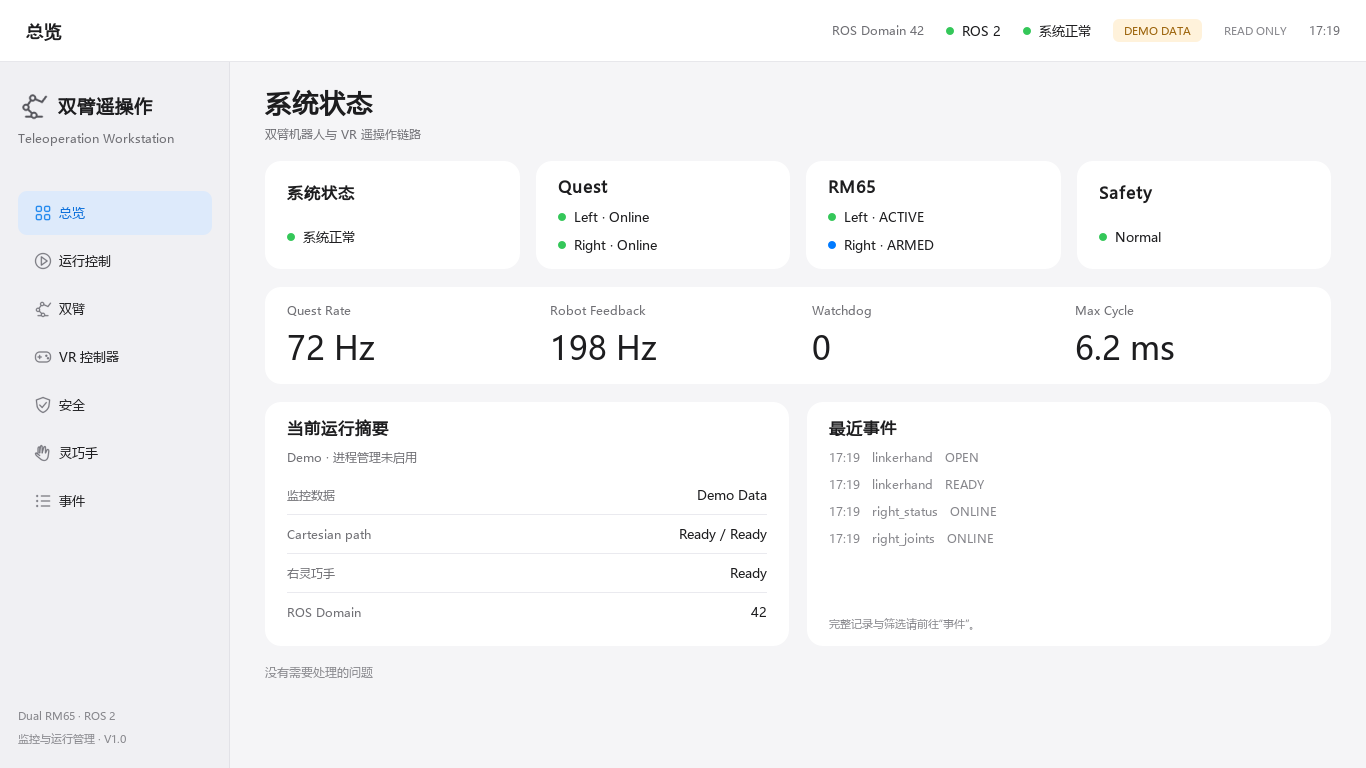
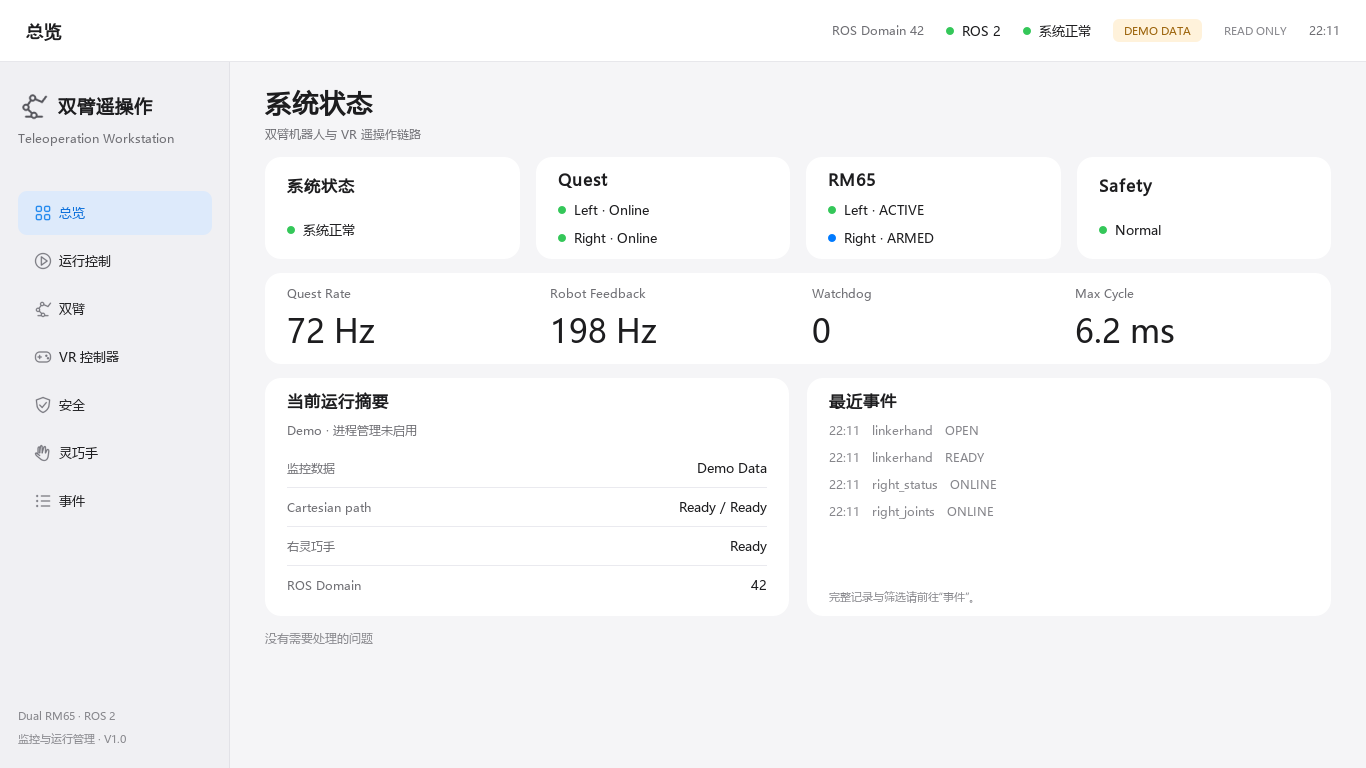
Fit the overview to Humble fonts and deduplicate observer failures

diff --git a/src/rm65_teleop_dashboard/rm65_teleop_dashboard/runtime_service.py b/src/rm65_teleop_dashboard/rm65_teleop_dashboard/runtime_service.py
@@ -58,6 +58,7 @@ class RuntimeService:
         self._snapshot = RuntimeSnapshot()
         self._closing = threading.Event()
         self._thread = None
+        self._observer_error = ''
 
     @classmethod
     def demo(cls):
@@ -100,16 +101,22 @@ class RuntimeService:
             try:
                 self.cycle()
             except Exception as exc:
-                self.system.error = str(exc)
-                self.system.event('RUNTIME_OBSERVER_ERROR', str(exc), 'ERROR')
-                # Failed observation must revoke any previous ready/preflight result.
-                with self._lock:
-                    self._snapshot = RuntimeSnapshot(enabled=self.enabled,
-                        system=process_info(self.system), hand=process_info(self.hand),
-                        facts=PreflightFacts(detail=str(exc)), events=tuple(self.system.events))
+                self.observation_failed(exc)
                 self.system.tick()
                 self.hand.tick()
             self._closing.wait(.5)
+
+    def observation_failed(self, exc):
+        message = str(exc)
+        if message != self._observer_error:
+            self.system.event('RUNTIME_OBSERVER_ERROR', message, 'ERROR')
+        self._observer_error = self.system.error = message
+        self.system.set_ready(False)
+        self.hand.set_ready(False)
+        with self._lock:
+            self._snapshot = RuntimeSnapshot(enabled=self.enabled,
+                system=process_info(self.system), hand=process_info(self.hand),
+                facts=PreflightFacts(detail=message), events=tuple(self.system.events))
 
     def cycle(self):
         self.system.tick()
@@ -132,6 +139,11 @@ class RuntimeService:
         graph = self.graph_provider()
         data = self.snapshot_provider()
         facts = self._facts(graph, data)
+        if self._observer_error:
+            if self.system.error == self._observer_error:
+                self.system.error = ''
+            self._observer_error = ''
+            self.system.event('RUNTIME_OBSERVER_RECOVERED')
         # At most one startup per observation. Every subsequent queued click
         # receives fresh graph/process evidence on the next worker iteration.
         try:

diff --git a/src/rm65_teleop_dashboard/test/test_runtime_service.py b/src/rm65_teleop_dashboard/test/test_runtime_service.py
@@ -101,3 +101,14 @@ def test_close_without_worker_waits_and_escalates_owned_handle():
     runtime.close()
     assert handle.signals == [2, 15]
     assert runtime.system.handle is None
+
+
+def test_repeated_observation_error_logs_once_and_recovers():
+    runtime = service()
+    runtime.observation_failed(RuntimeError('graph unavailable'))
+    runtime.observation_failed(RuntimeError('graph unavailable'))
+    assert sum('RUNTIME_OBSERVER_ERROR' in e.message for e in runtime.system.events) == 1
+    assert not runtime.snapshot().facts.graph_ok
+    runtime.cycle()
+    assert runtime.system.error == ''
+    assert sum('RUNTIME_OBSERVER_RECOVERED' in e.message for e in runtime.system.events) == 1

diff --git a/src/rm65_teleop_dashboard/test/test_cli.py b/src/rm65_teleop_dashboard/test/test_cli.py
@@ -9,10 +9,10 @@ from rm65_teleop_dashboard.app import argument_parser
 from rm65_teleop_dashboard.view_config import PAGE_KEYS
 
 
-def test_page_argument_accepts_six_pages_and_rejects_invalid():
+def test_page_argument_accepts_seven_pages_and_rejects_invalid():
     parser = argument_parser()
     assert parser.parse_args(['--demo']).page == 'overview'
-    for page in ('overview', 'arms', 'controllers', 'safety', 'linkerhand', 'events'):
+    for page in PAGE_KEYS:
         assert parser.parse_args(['--demo', '--page', page]).page == page
     with pytest.raises(SystemExit) as error:
         parser.parse_args(['--demo', '--page', 'invalid'])

diff --git a/src/rm65_teleop_dashboard/rm65_teleop_dashboard/pages/overview_page.py b/src/rm65_teleop_dashboard/rm65_teleop_dashboard/pages/overview_page.py
@@ -66,8 +66,10 @@ class OverviewPage(Page):
 
     def resizeEvent(self, event):
         super().resizeEvent(event)
+        if self.compact:
+            self.body.setSpacing(14)
         for card in self.findChildren(Card):
-            card.body.setContentsMargins(22, 15 if self.compact else 24, 22, 15 if self.compact else 24)
+            card.body.setContentsMargins(22, 12 if self.compact else 24, 22, 12 if self.compact else 24)
             card.body.setSpacing(10 if self.compact else 18)
 
     def update_runtime(self, runtime):

diff --git a/src/rm65_teleop_dashboard/rm65_teleop_dashboard/navigation.py b/src/rm65_teleop_dashboard/rm65_teleop_dashboard/navigation.py
@@ -1,4 +1,4 @@
-"""Six display-only destinations with original monochrome vector icons."""
+"""Seven workstation destinations with original monochrome vector icons."""
 from PyQt5.QtCore import Qt, QSize, QRectF, QPointF
 from PyQt5.QtGui import QColor, QIcon, QPainter, QPen, QPixmap, QPainterPath
 from PyQt5.QtWidgets import QFrame, QHBoxLayout, QListWidget, QListWidgetItem, QVBoxLayout

diff --git a/src/rm65_teleop_dashboard/rm65_teleop_dashboard/widgets.py b/src/rm65_teleop_dashboard/rm65_teleop_dashboard/widgets.py
@@ -1,4 +1,4 @@
-"""Presentation primitives. Every interactive element changes the view only."""
+"""Presentation primitives shared by monitoring and runtime pages."""
 import math
 from PyQt5.QtCore import Qt, QPointF, QRectF, pyqtSignal
 from PyQt5.QtGui import QColor, QPainter, QPainterPath, QPen
